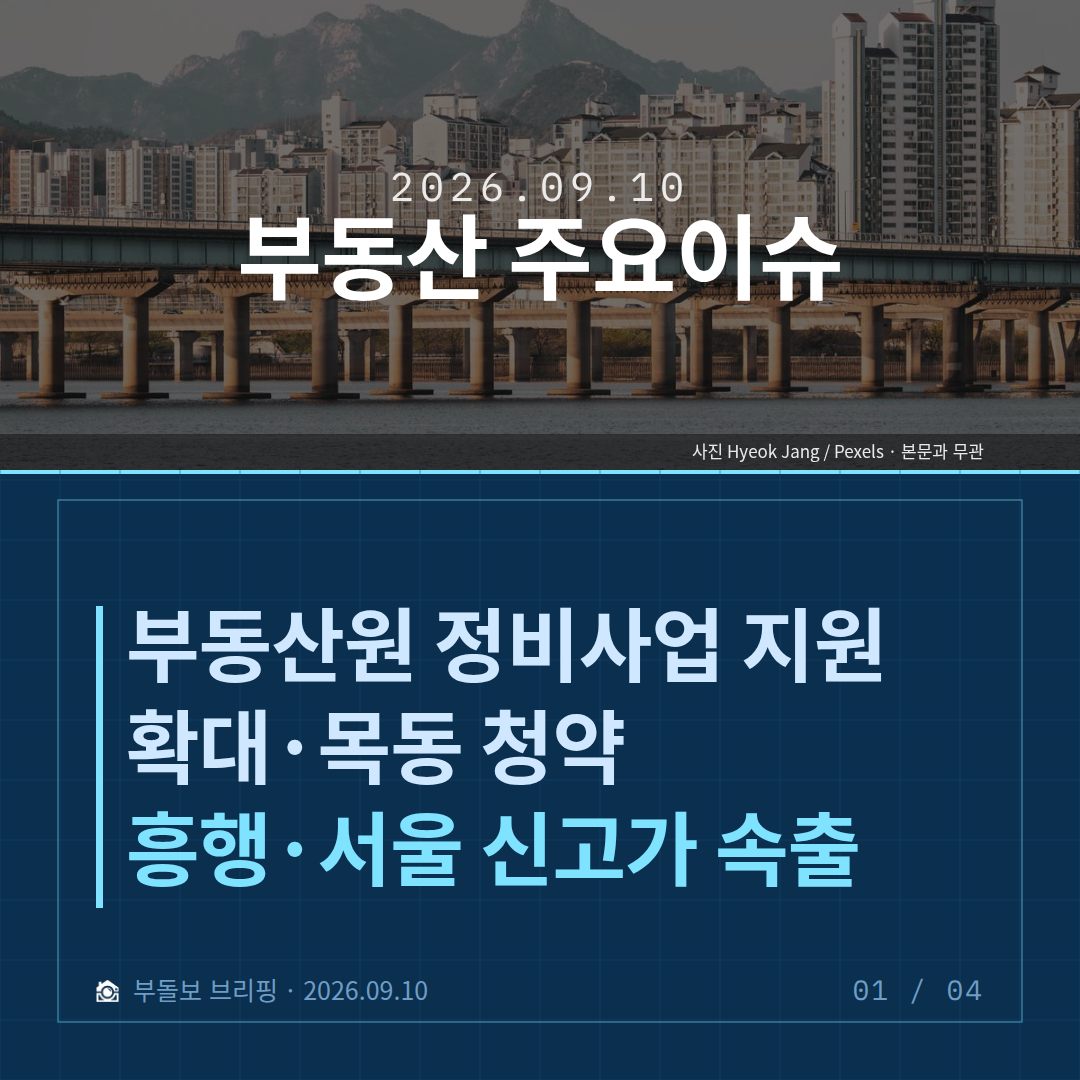
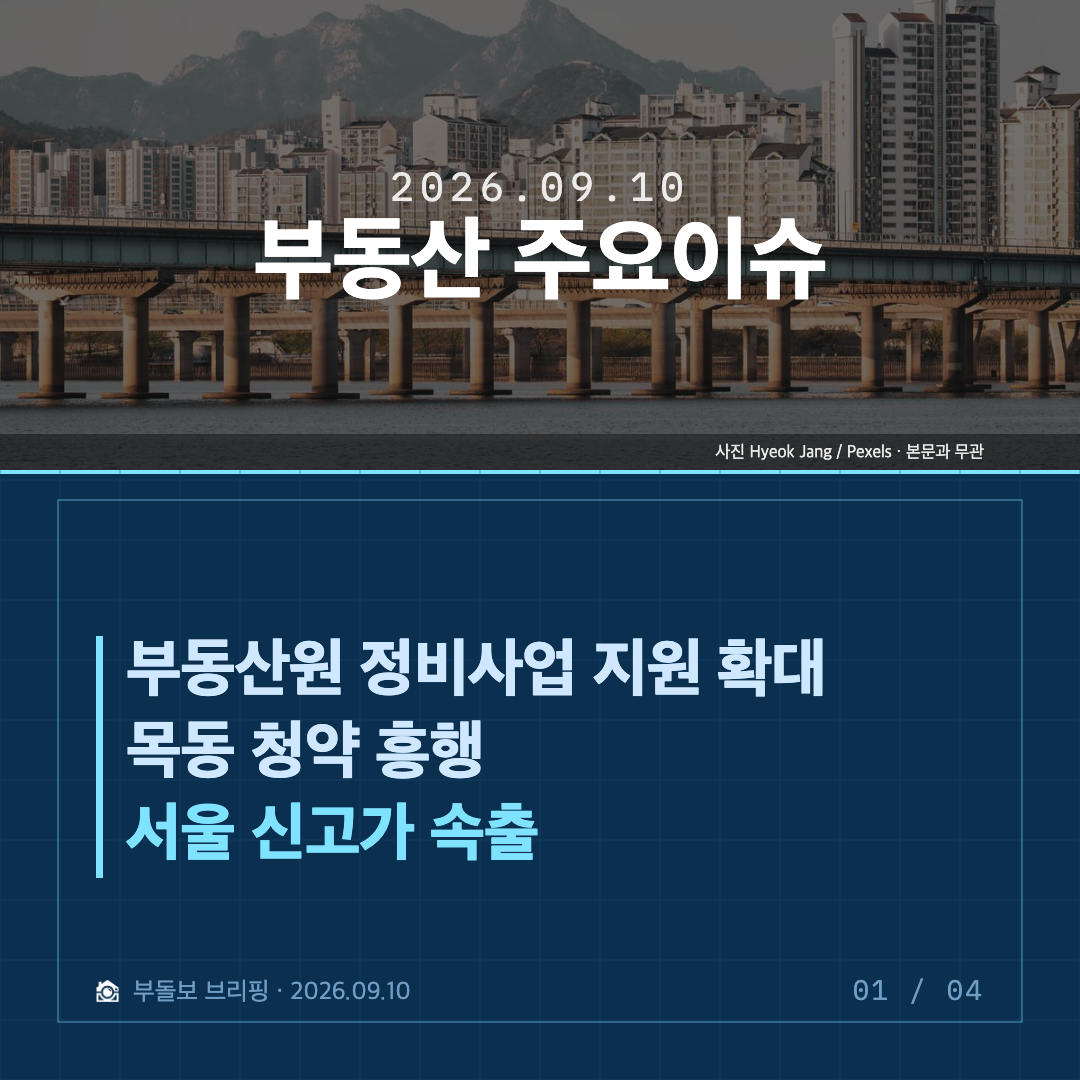
표지 제목은 기사 단위로만 줄을 바꿈
모델이 그날 헤드라인을 「A·B·C」로 이어 붙이는데, 낱말 단위로 끊으면 「…지원 / 확대·목동
청약 / 흥행·서울…」처럼 기사 하나가 두 줄로 갈리고 마지막 줄만 신호색이라 다른 기사처럼
읽혔습니다 (2026-09-10 사용자 지적). 가운뎃점으로 나눠 한 기사 = 한 줄로 놓고, 기본 크기에
안 들어가는 기사가 있으면 들어갈 때까지 글씨를 줄입니다. 「재건축·재개발」처럼 낱말 사이
점은 기사 경계로 보지 않습니다. 오늘 표지는 같은 사진으로 다시 뽑아 넣었습니다 (80 → 64).

diff --git a/rebrief/images.py b/rebrief/images.py
@@ -1566,6 +1566,41 @@ def _fit(text: str, size: float, width: float, max_lines: int, floor: float = 30
     return lines[:max_lines], size
 
 
+def _headline_items(text: str) -> list[str]:
+    """가운뎃점(·)으로 이어 붙인 제목을 기사 단위로 나눈다.
+
+    「재건축·재개발 정비사업」의 점은 낱말 사이 점이지 기사 경계가 아닙니다. 그래서
+    나눈 조각이 **낱말 하나뿐이면** 옆 조각에 도로 붙입니다 — 기사 제목은 늘 여러 낱말입니다.
+    """
+    parts = [s.strip() for s in re.split(r"\s*[·‧•]\s*", text or "") if s.strip()]
+    items: list[str] = []
+    for part in parts:
+        if items and (" " not in part or " " not in items[-1]):
+            items[-1] = f"{items[-1]}·{part}"
+        else:
+            items.append(part)
+    return items
+
+
+def _fit_items(text: str, size: float, width: float, max_lines: int, floor: float) -> tuple[list[str], float]:
+    """제목이 기사 여러 개를 이어 붙인 것이면 **기사 단위로만** 줄을 바꾼다.
+
+    2026-09-10 표지 — 「부동산원 정비사업 지원 / 확대·목동 청약 / 흥행·서울 신고가 속출」로
+    낱말 단위로 끊기고 마지막 줄만 색이 달라, 기사 하나가 둘로 갈려 다른 기사처럼 읽혔습니다
+    (사용자 지적). 기본 글자 크기를 먼저 쓰고, 어느 기사가 한 줄에 안 들어가면 **들어갈 때까지
+    글씨를 줄입니다.** 하한에서도 안 들어가거나 기사 수가 줄 수를 넘으면 예전 방식으로 돕니다.
+    """
+    items = _headline_items(text)
+    if len(items) < 2 or len(items) > max_lines:
+        return _fit(text, size, width, max_lines, floor)
+    small = size
+    while small > floor and any(text_width(it, small) > width for it in items):
+        small -= 2
+    if all(text_width(it, small) <= width for it in items):
+        return items, small
+    return _fit(text, size, width, max_lines, floor)
+
+
 def _sentence_fit(text: str, size: float, width: float, max_lines: int) -> tuple[list[str], float]:
     """문장 중간에서 끊기지 않게 자른다.
 
@@ -1651,8 +1686,10 @@ def _cover_card(headline: str, sub: str, badge: str, total: int, date: str, chan
                                  art=art, banner=banner)
     inner = w - 192
 
-    lines, size = _fit(headline, 104 if not art else 80, inner, 4 if not art else 3,
-                       floor=62 if not art else 50)
+    # 기사 단위로만 줄을 바꿉니다 (2026-09-10 사용자 지시). 낱말 단위로 끊으면 기사 하나가
+    # 두 줄로 갈리고 마지막 줄만 색이 달라 다른 기사처럼 보입니다.
+    lines, size = _fit_items(headline, 104 if not art else 80, inner, 4 if not art else 3,
+                             floor=62 if not art else 50)
     line_h = size * 1.26
     badge_h = 96 if badge else 0
     y = top + max(0, (bottom - top - (line_h * len(lines) + badge_h)) / 2)

diff --git a/tests/test_develop.py b/tests/test_develop.py
@@ -2733,3 +2733,33 @@ class _capture:
 
     def __exit__(self, *a):
         self.logger.removeHandler(self.h)
+
+
+def test_cover_title_breaks_only_between_stories(cfg):
+    """표지 제목은 기사 단위로만 줄을 바꾼다 (2026-09-10 사용자 지시).
+
+    「부동산원 정비사업 지원 / 확대·목동 청약 / 흥행·…」처럼 낱말 단위로 끊기면 기사 하나가
+    둘로 갈리고 마지막 줄만 색이 달라 다른 기사처럼 읽힌다. 기본 크기에 안 들어가면 줄인다.
+    """
+    from rebrief import images
+
+    width = 1080 - 192
+    # 세 기사 → 세 줄, 가장 긴 기사가 들어갈 때까지 80 에서 줄어든다
+    lines, size = images._fit_items("부동산원 정비사업 지원 확대·목동 청약 흥행·서울 신고가 속출",
+                                    80, width, 3, 50)
+    assert lines == ["부동산원 정비사업 지원 확대", "목동 청약 흥행", "서울 신고가 속출"]
+    assert 50 <= size < 80 and all(images.text_width(l, size) <= width for l in lines)
+    # 다 들어가면 기본 크기 그대로
+    assert images._fit_items("분당 집값 1위·서울 월세 162만원", 80, width, 3, 50) == (
+        ["분당 집값 1위", "서울 월세 162만원"], 80)
+    # 「재건축·재개발」의 점은 낱말 사이 점이지 기사 경계가 아니다
+    assert images._headline_items("재건축·재개발 정비사업 속도전 본격화") == ["재건축·재개발 정비사업 속도전 본격화"]
+
+    # 실제 표지 카드에서 <text> 세 줄이 기사와 일치한다
+    got = images.cards({"headline": "부동산원 정비사업 지원 확대·목동 청약 흥행·서울 신고가 속출",
+                        "issues": [{"title": "하나", "one_liner": "한 줄", "numbers": []}]},
+                       date="2026-09-10")
+    texts = re.findall(r'font-size="(\d+)" font-weight="800" letter-spacing="-1" fill="[^"]+">([^<]+)</text>',
+                       got[0].svg)
+    assert [t for _, t in texts] == ["부동산원 정비사업 지원 확대", "목동 청약 흥행", "서울 신고가 속출"]
+    assert len({s for s, _ in texts}) == 1                     # 세 줄이 같은 크기
